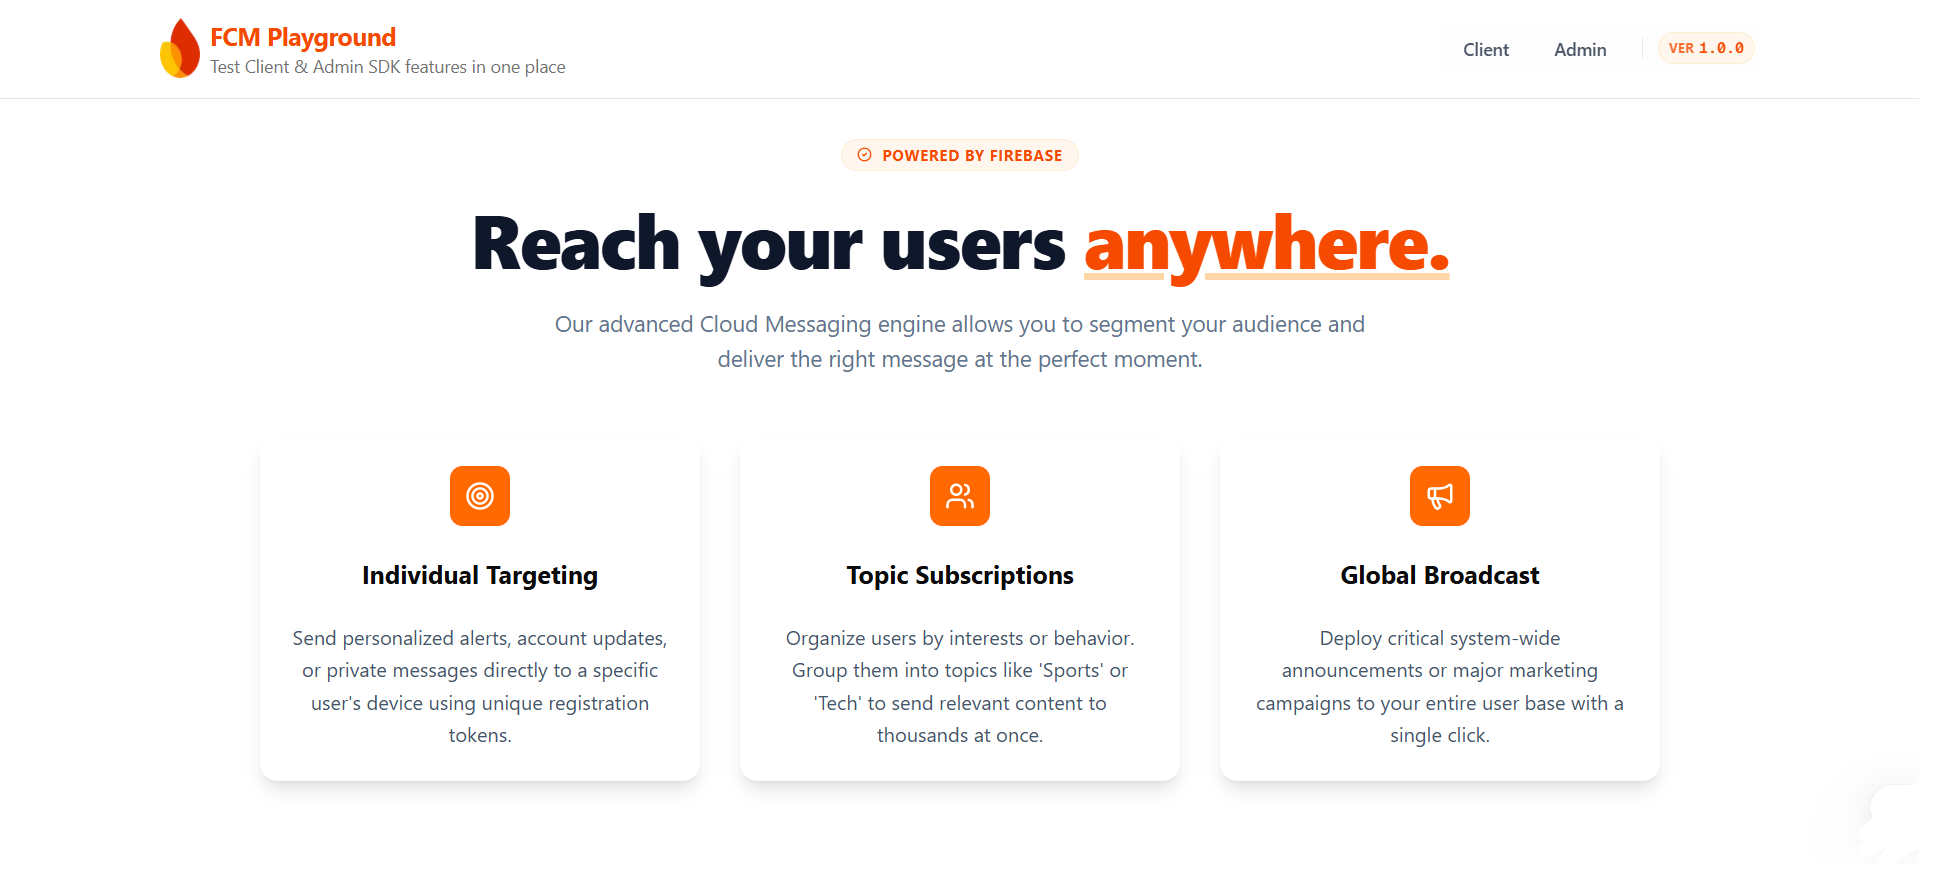
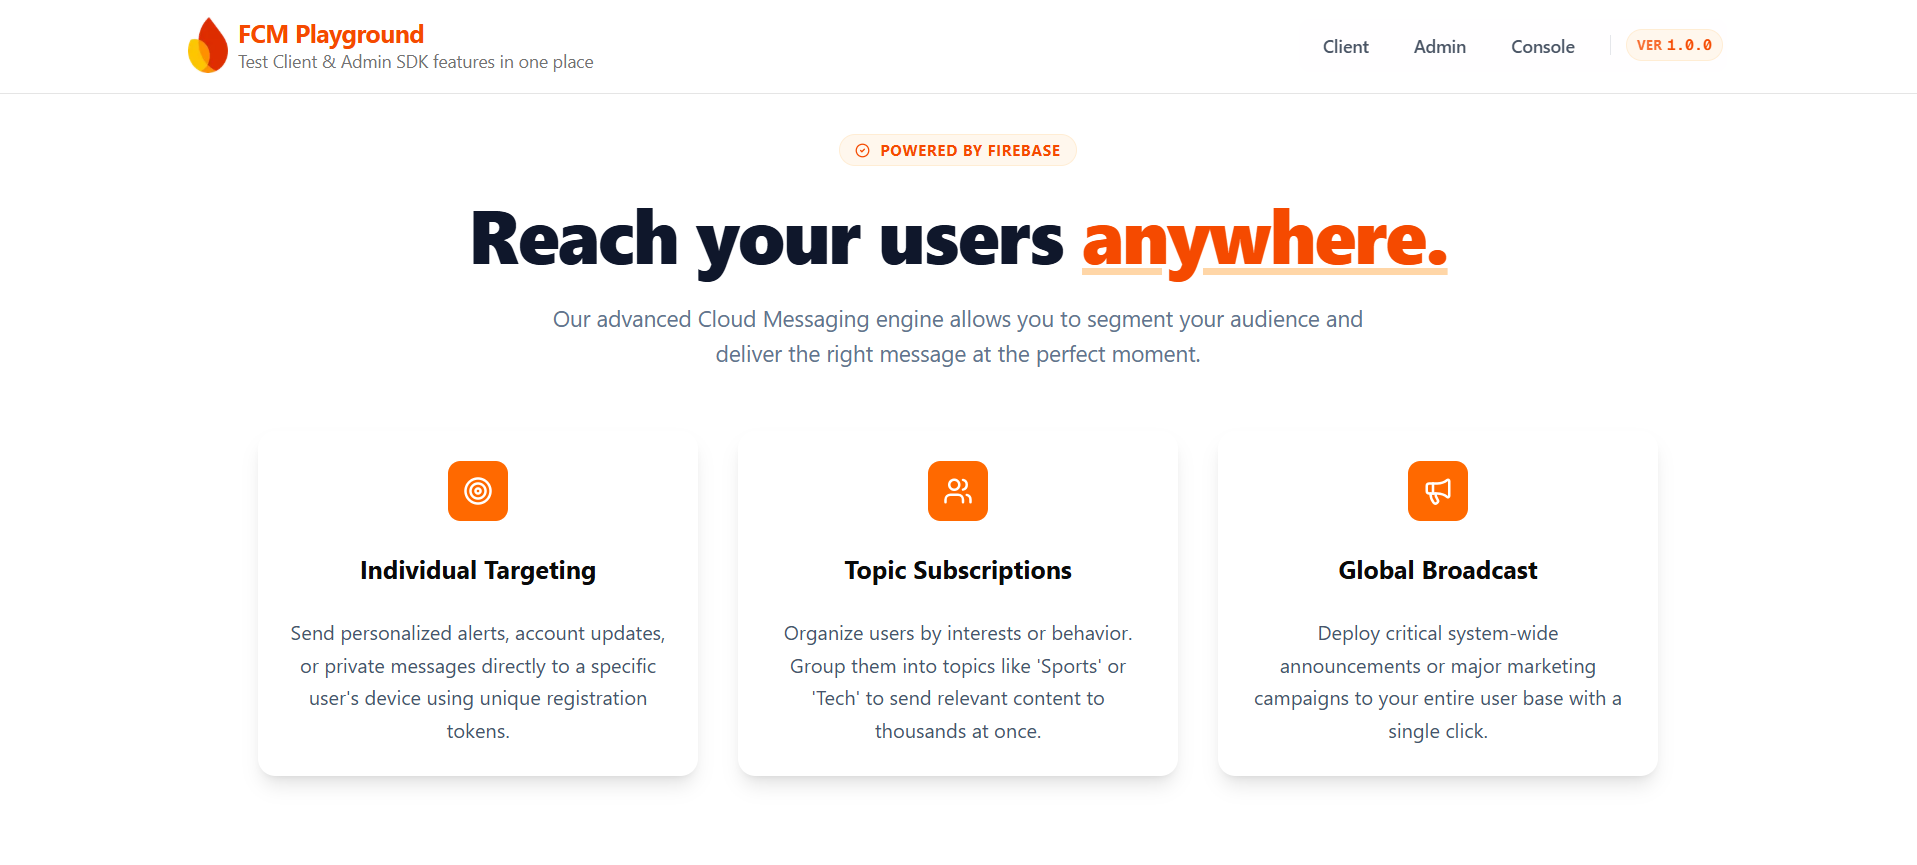
feat: add responsive ness

diff --git a/components/layout/header/NavBar.tsx b/components/layout/header/NavBar.tsx
@@ -1,14 +1,24 @@
+"use client";
+
+import { Menu, X } from "lucide-react";
 import Image from "next/image";
 import Link from "next/link";
-import React from "react";
+import { useState } from "react";
 
 const NavBar = () => {
+  const [isOpen, setIsOpen] = useState(false);
   return (
-    <nav className=" flex items-center justify-between sticky top-0 z-50 max-w-screen-xl mx-auto">
+    <nav className=" flex items-center justify-between sticky top-0 z-50 max-w-screen-xl mx-auto px-4 md:px-6">
       <div className="flex gap-2">
-        <Image src="/icon.png" alt="FCM Playground" height="32" width="32" />
+        <Image
+          src="/icon.png"
+          alt="FCM Playground"
+          height="32"
+          width="32"
+          className="shrink-0"
+        />
         <Link href="/">
-          <h1 className="text-xl font-bold tracking-tight text-orange-600">
+          <h1 className="text-lg md:text-xl font-bold tracking-tight text-orange-600 leading-tight">
             FCM Playground
           </h1>
           <p className="text-sm text-muted-foreground">
@@ -16,7 +26,8 @@ const NavBar = () => {
           </p>
         </Link>
       </div>
-      <div className="flex items-center gap-2 p-1 bg-white/50 backdrop-blur-sm rounded-lg w-fit">
+      {/* <div className="hidden md:flex items-center gap-2 p-1 bg-gray-50/50 rounded-lg border border-gray-100"></div> */}
+      <div className="hidden md:flex items-center gap-2 p-1 bg-white/50 backdrop-blur-sm rounded-lg w-fit">
         {/* Navigation Links */}
         <div className="flex items-center gap-1">
           <Link
@@ -52,6 +63,42 @@ const NavBar = () => {
           </span>
         </div>
       </div>
+      <button
+        className="md:hidden p-2 text-gray-600 hover:bg-orange-50 rounded-md transition-colors cursor-pointer"
+        onClick={() => setIsOpen(!isOpen)}
+      >
+        {isOpen ? <X className="size-6" /> : <Menu className="size-6" />}
+      </button>
+      {isOpen && (
+        <div className="md:hidden absolute top-16 left-0 w-full bg-white border-b border-orange-100 p-4 flex flex-col gap-2 shadow-xl animate-in slide-in-from-top-2">
+          <Link
+            href="/client"
+            className="px-4 py-2 text-sm font-medium text-gray-600 hover:text-orange-600 hover:bg-orange-50 rounded-md transition-all duration-300 active:scale-95"
+          >
+            Client
+          </Link>
+          <Link
+            href="/admin"
+            className="px-4 py-2 text-sm font-medium text-gray-600 hover:text-orange-600 hover:bg-orange-50 rounded-md transition-all duration-300 active:scale-95"
+          >
+            Admin
+          </Link>
+          <Link
+            href="https://console.firebase.google.com/"
+            className="px-4 py-2 text-sm font-medium text-gray-600 hover:text-orange-600 hover:bg-orange-50 rounded-md transition-all duration-300 active:scale-95"
+          >
+            Console
+          </Link>
+          <div className="flex items-center px-2 py-1 bg-orange-50 border border-orange-100 rounded-full">
+            <span className="text-[10px] uppercase tracking-wider font-bold text-orange-600/80 mr-1">
+              Ver
+            </span>
+            <span className="text-xs font-mono font-semibold text-orange-600">
+              1.0.0
+            </span>
+          </div>
+        </div>
+      )}
     </nav>
   );
 };

diff --git a/components/pages/home/client/Configuration.tsx b/components/pages/home/client/Configuration.tsx
@@ -27,27 +27,36 @@ const Configuration = ({
   return (
     <Card className="border-primary/20 shadow-primary/5">
       <CardHeader>
-        <CardTitle className="text-lg flex items-center justify-between">
+        <CardTitle className="text-lg flex flex-col sm:flex-row items-start sm:items-center justify-between gap-4">
+          {/* Left Side: Icon and Title */}
           <div className="flex items-center gap-2 text-primary">
-            <ShieldCheck className="size-4 text-primary" />
-            Configuration
+            <ShieldCheck className="size-4 shrink-0" />
+            <span className="truncate">Configuration</span>
           </div>
 
-          <div className="flex items-center gap-2">
+          {/* Right Side: Badges and Modals */}
+          <div className="flex flex-wrap flex-col items-start md:items-center md:flex-row gap-2 w-full sm:w-auto">
             {isInitialized ? (
               <Badge
                 variant="secondary"
-                className="bg-emerald-500/10 text-emerald-600"
+                className="bg-emerald-500/10 text-emerald-600 border-emerald-500/20 whitespace-nowrap"
               >
                 <CheckCircle2 className="size-3 mr-1" /> Initialized
               </Badge>
             ) : (
-              <Badge variant="outline" className="text-muted-foreground italic">
+              <Badge
+                variant="outline"
+                className="text-muted-foreground italic whitespace-nowrap"
+              >
                 Not Ready
               </Badge>
             )}
-            <QuickSetupModal onConfigParsed={setConfig} />
-            <ServiceAccountModal onConfigParsed={setServiceAccountRaw} />
+
+            {/* Buttons Container */}
+            <div className="flex flex-col items-start md:items-center md:flex-row gap-2 md:ml-auto sm:ml-0">
+              <QuickSetupModal onConfigParsed={setConfig} />
+              <ServiceAccountModal onConfigParsed={setServiceAccountRaw} />
+            </div>
           </div>
         </CardTitle>
       </CardHeader>

diff --git a/components/pages/home/client/ClientSDK.tsx b/components/pages/home/client/ClientSDK.tsx
@@ -292,17 +292,22 @@ const ClientSDK = () => {
   };
 
   return (
-    <div className="py-4 max-w-screen-xl mx-auto space-y-4">
-      <div className="grid grid-cols-2 lg:grid-cols-2 gap-4">
-        {/* <div className="space-y-6 max-w-3xl mx-auto p-4 md:p-8"> */}
-        {/* <div className="space-y-4"> */}
-        {/* <div className="flex items-center gap-3 text-primary mb-4">
+    <div className="py-4 px-4 md:px-6 max-w-screen-xl mx-auto space-y-6">
+      {/* Header Section (Optional but helps mobile context) */}
+      {/* <div className="flex flex-col sm:flex-row sm:items-center justify-between gap-4">
+        <div className="flex items-center gap-3 text-primary">
           <Bell className="size-6" />
-          <h2 className="text-2xl font-bold tracking-tight">Client SDK</h2>
+          <h2 className="text-xl md:text-2xl font-bold tracking-tight">
+            FCM Playground
+          </h2>
           <Badge variant="outline" className="border-primary/30 text-primary">
-            Frontend
+            Client SDK
           </Badge>
-        </div> */}
+        </div>
+      </div> */}
+
+      {/* Responsive Grid: 1 column on mobile, 2 on lg screens */}
+      <div className="grid grid-cols-1 lg:grid-cols-2 gap-6 items-start">
         <Configuration
           isInitialized={isInitialized}
           config={config}
@@ -311,6 +316,7 @@ const ClientSDK = () => {
           serviceAccountRaw={serviceAccountRaw}
           setServiceAccountRaw={setServiceAccountRaw}
         />
+
         <FCMToken
           vapidKey={vapidKey}
           setVapidKey={setVapidKey}
@@ -327,9 +333,10 @@ const ClientSDK = () => {
           serviceAccountRaw={serviceAccountRaw}
           handleUnsubscribeFromTopic={handleUnsubscribeFromTopic}
         />
-        {/* </div> */}
       </div>
-      <div>
+
+      {/* Full width logs */}
+      <div className="w-full">
         <Logs title="client" logs={logs} setLogs={setLogs} />
       </div>
     </div>

diff --git a/components/pages/home/server/ServerSDK.tsx b/components/pages/home/server/ServerSDK.tsx
@@ -122,18 +122,18 @@ const ServerSDK = () => {
     ]);
   };
   return (
-    <div className="py-4 max-w-screen-xl mx-auto space-y-4">
-      <div className="grid grid-cols-2 lg:grid-cols-2 gap-4">
-        {/* <div className="flex items-center gap-3 text-secondary mb-4">
+    <div className="py-4 px-4 md:px-6 max-w-screen-xl mx-auto space-y-6">
+      {/* <div className="flex items-center gap-3 text-secondary mb-4">
           <Server className="size-6" />
           <h2 className="text-2xl font-bold">Admin SDK</h2>
           <Badge
-            variant="outline"
-            className="border-secondary/30 text-secondary"
+          variant="outline"
+          className="border-secondary/30 text-secondary"
           >
-            Server-side
+          Server-side
           </Badge>
-        </div> */}
+          </div> */}
+      <div className="grid grid-cols-1 lg:grid-cols-2 gap-6 items-start">
         <Configuration
           isInitialized={isInitialized}
           serviceAccountRaw={serviceAccountRaw}
@@ -154,7 +154,7 @@ const ServerSDK = () => {
           isInitialized={isInitialized}
         />
       </div>
-      <div>
+      <div className="w-full">
         <Logs title="server" logs={logs} setLogs={setLogs} />
       </div>
     </div>

diff --git a/components/pages/home/server/DispatchMessage.tsx b/components/pages/home/server/DispatchMessage.tsx
@@ -57,13 +57,13 @@ const DispatchMessage = ({
         >
           <TabsList className="grid w-full grid-cols-3">
             <TabsTrigger value="token" className="flex items-center gap-2 text-secondary/90 cursor-pointer">
-              <User className="size-3" /> Specific User
+              <User className="size-3" /> Specific
             </TabsTrigger>
             <TabsTrigger value="topic" className="flex items-center gap-2 text-secondary/90 cursor-pointer">
-              <Users className="size-3" /> Group (Topic)
+              <Users className="size-3" /> Group
             </TabsTrigger>
             <TabsTrigger value="broadcast" className="flex items-center gap-2 text-secondary/90 cursor-pointer">
-              <Radio className="size-3" /> All Users
+              <Radio className="size-3" /> All
             </TabsTrigger>
           </TabsList>
 

diff --git a/app/api/fcm/send/route.ts b/app/api/fcm/send/route.ts
@@ -26,9 +26,9 @@ export async function POST(req: NextRequest) {
         const targetConfig =
             targetType === "token" ? { token: target } :
                 targetType === "topic" ? { topic: target } :
-                    { topic: "all-users" };
+                    { topic: "all_users" };
 
-        const message: admin.messaging.Message = {
+                    const message: admin.messaging.Message = {
             ...targetConfig,
             notification: {
                 title: payload.notification?.title || "Default Title",

diff --git a/components/pages/home/server/Configuration.tsx b/components/pages/home/server/Configuration.tsx
@@ -25,7 +25,7 @@ const Configuration = ({
   return (
     <Card className="border-secondary/20 shadow-secondary/5">
       <CardHeader>
-        <CardTitle className="text-lg flex items-center justify-between">
+        <CardTitle className="text-lg flex flex-col md:flex-row items-start md:items-center  justify-between">
           <div className="flex items-center gap-2 text-secondary">
             <Settings className="size-4 text-secondary" />
             Admin Configuration

diff --git a/components/pages/home/client/FCMToken.tsx b/components/pages/home/client/FCMToken.tsx
@@ -47,8 +47,8 @@ const FCMToken = ({
   return (
     <Card className="border-primary/20 shadow-primary/5">
       <CardHeader>
-        <CardTitle className="text-lg flex items-center gap-2">
-          <Key className="size-4 text-primary" />
+        <CardTitle className="text-lg flex items-center gap-2  text-primary">
+          <Key className="size-4" />
           FCM Token
         </CardTitle>
       </CardHeader>

diff --git a/README.md b/README.md
@@ -1,3 +1,10 @@
+# FCM Playground
+It is a experimental sandbox for implementing Firebase Cloud Messaging (FCM) using both the Firebase Client SDK and the Firebase Admin SDK. It demonstrates how to register devices, handle foreground/background notifications, and send messages from a server environment.
+
+## Preview
+<img src="/public/overview.png" />
+
+[Live Preview](https://fcm-playground.vercel.app/)
 ## Architectural Overview
 
 <img src="https://firebase.google.com/static/docs/cloud-messaging/images/diagram-FCM.png" />
@@ -8,11 +15,15 @@
 1. On the device, the client app receives the message or notification.
 
 ## Installation
+
 ### Firebase Client SDK
+
 Used in client components for auth, Firestore, etc.
+
 ```sh
 npm install firebase
 ```
+
 This installs:
 
 - `firebase/app` – initialize Firebase
@@ -28,11 +39,13 @@ Used in:
 - Browser-only code
 
 ### Firebase Admin SDK
+
 Used in server actions, API routes, middleware, cron jobs
 
 ```sh
 npm install firebase-admin
 ```
+
 This provides:
 
 - `firebase-admin/app` – initialize Admin app
@@ -43,7 +56,7 @@ This provides:
 Used in:
 
 - Server Actions
-- API Routes (app/api/*)
+- API Routes (app/api/\*)
 - Middleware
 - Cron jobs
 - Background tasks
